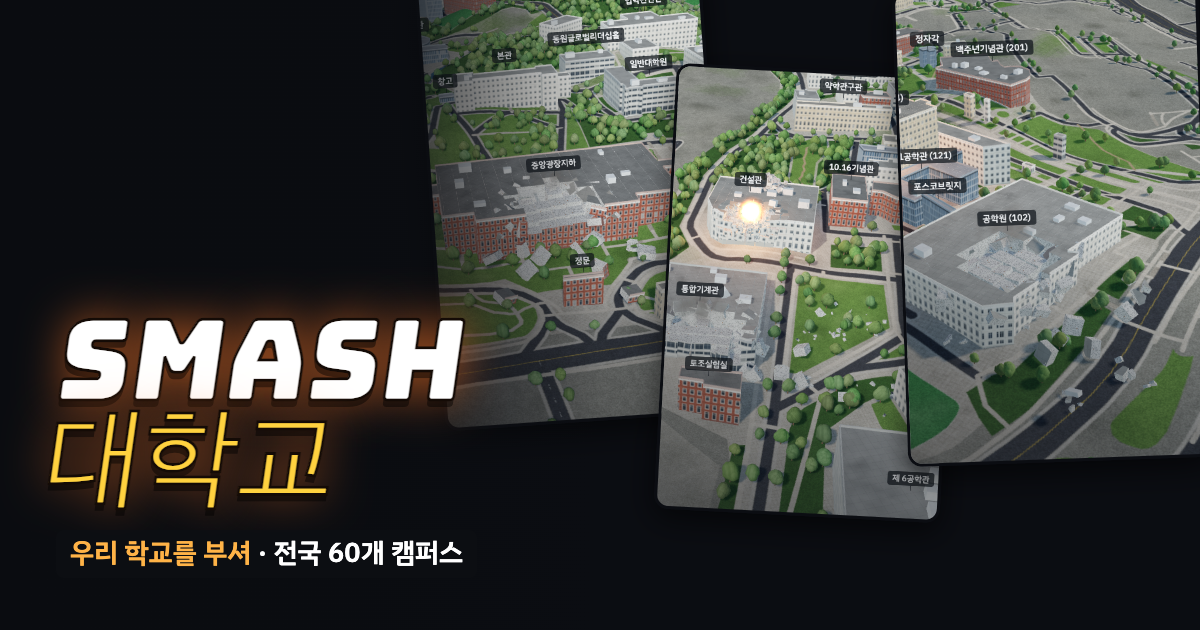
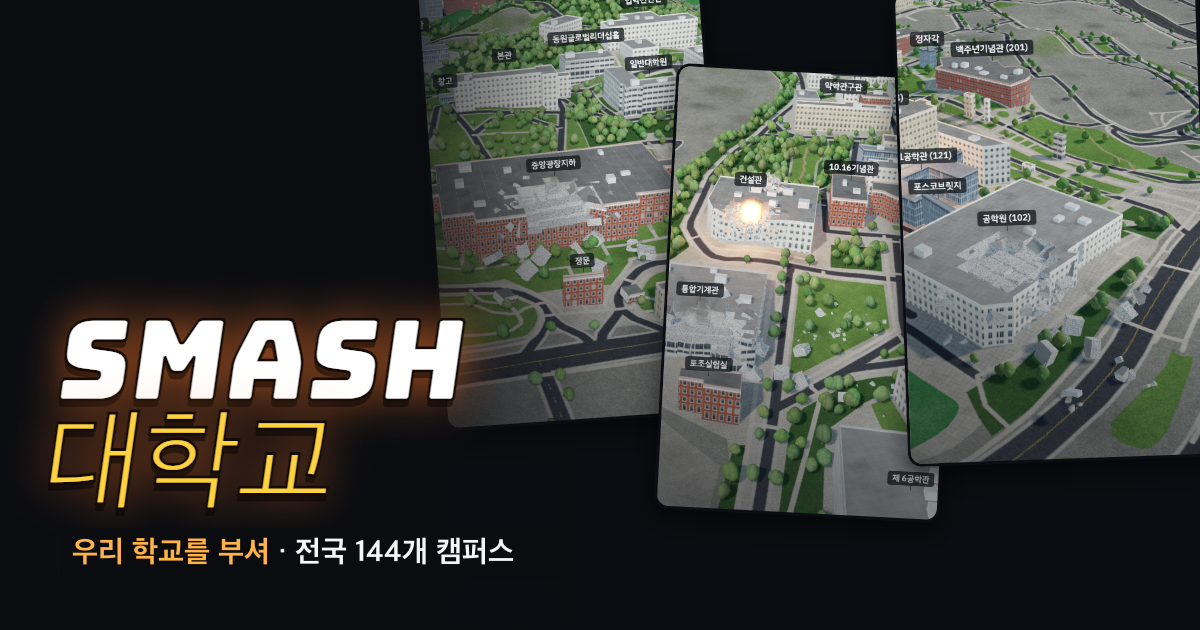
허브: 만든 사람 X 링크(@Hong_Iron_DEV) 추가, 공유 이미지 문구를 144개 캠퍼스로

Changed region(s): [[0.0617, 0.8444, 0.4317, 0.9048]]

diff --git a/site/index.html b/site/index.html
@@ -169,8 +169,9 @@ a:focus-visible, button:focus-visible { outline: 2px solid var(--gold); outline-
 .notice .text { color: var(--muted); font-size: 14px; }
 .notice .go { justify-self: start; padding: 7px 14px; border-radius: 8px; background: var(--hot); color: #1a0d05; font-weight: 600; font-size: 14px; }
 @media (max-width: 640px) { .notice { grid-template-columns: 1fr; } .notice img { height: auto; } }
-.maker { justify-self: end; margin-bottom: -18px; color: var(--muted); font-size: 13px; text-decoration: none; }
-.maker:hover { color: var(--fg); text-decoration: underline; text-underline-offset: 3px; }
+.maker { justify-self: end; margin: 0 0 -18px; color: var(--muted); font-size: 13px; }
+.maker a { color: inherit; text-decoration: none; }
+.maker a:hover { color: var(--fg); text-decoration: underline; text-underline-offset: 3px; }
 .fab { position: fixed; right: max(calc(16px + env(safe-area-inset-right, 0px)), calc((100vw - 1080px) / 2 + 16px)); bottom: calc(16px + env(safe-area-inset-bottom, 0px)); z-index: 50; display: flex; gap: 8px; transition: opacity .2s, transform .2s; }
 .fab a { padding: 11px 16px; border-radius: 999px; font: 700 14px var(--font-ui); text-decoration: none; white-space: nowrap; }
 .fab .kakao { background: #fee500; color: #191919; box-shadow: 0 8px 24px rgba(0, 0, 0, .5), 0 0 0 3px rgba(254, 229, 0, .18); }
@@ -233,7 +234,7 @@ footer { color: var(--muted); font-size: 12.5px; display: grid; gap: 4px; }
 </head>
 <body>
 <main class="wrap">
-  <a class="maker" href="https://hong-iron.github.io/Hongs_Blog/" target="_blank" rel="noopener" id="blog-link">Hong-Iron 블로그 ↗</a>
+  <p class="maker">만든 사람 <a href="https://x.com/Hong_Iron_DEV" target="_blank" rel="noopener" id="x-link">@Hong_Iron_DEV</a> · <a href="https://hong-iron.github.io/Hongs_Blog/" target="_blank" rel="noopener" id="blog-link">블로그 ↗</a></p>
   <header class="hero">
     <h1>SMASH <span>대학교</span></h1>
     <p class="tag">우리 학교 캠퍼스를 3D로 부숴 보세요</p>
@@ -324,7 +325,7 @@ footer { color: var(--muted); font-size: 12.5px; display: grid; gap: 4px; }
     <span>학교와 관계없는 비공식 팬 게임입니다. 학교 로고와 교표는 쓰지 않습니다.</span>
     <span>학교 랭킹에는 학교 코드와 점수만 보냅니다. 방문 수는 쿠키를 쓰지 않는 GoatCounter로 셉니다.</span>
     <span>건물·도로 © <a href="https://www.openstreetmap.org/copyright" target="_blank" rel="noopener">OpenStreetMap 기여자</a> · 고도 AWS Terrain Tiles (SRTM 30 m 기반) · 소스 <a href="https://github.com/Hong-Iron/SMASH" target="_blank" rel="noopener">GitHub</a></span>
-    <span>문의 <a href="mailto:hongcheolmin004@gmail.com" id="mail-link">hongcheolmin004@gmail.com</a></span>
+    <span>만든 사람 HongCM · X <a href="https://x.com/Hong_Iron_DEV" target="_blank" rel="noopener" id="x-link-foot">@Hong_Iron_DEV</a> · 문의 <a href="mailto:hongcheolmin004@gmail.com" id="mail-link">hongcheolmin004@gmail.com</a></span>
   </footer>
 </main>
 <div class="fab off" id="fab">
@@ -342,6 +343,7 @@ footer { color: var(--muted); font-size: 12.5px; display: grid; gap: 4px; }
     if (Date.now() - closedAt > WEEK) strip.hidden = false;
     strip.querySelectorAll('a[data-ev]').forEach(function (a) { a.addEventListener('click', function () { ev(a.dataset.ev); }); });
     document.getElementById('blog-link').addEventListener('click', function () { ev('hub-blog'); });
+    ['x-link', 'x-link-foot'].forEach(function (id) { document.getElementById(id).addEventListener('click', function () { ev('hub-x'); }); });
     // 토스는 휴대폰에서만 앱 링크로 열린다. PC에서는 대신 계좌번호를 복사한다
     var phone = /Android|iPhone|iPad|iPod/i.test(navigator.userAgent) || (navigator.maxTouchPoints > 1 && /Mac/.test(navigator.platform));
     document.querySelectorAll('a.toss').forEach(function (a) {

diff --git a/src/index.html b/src/index.html
@@ -169,8 +169,9 @@ a:focus-visible, button:focus-visible { outline: 2px solid var(--gold); outline-
 .notice .text { color: var(--muted); font-size: 14px; }
 .notice .go { justify-self: start; padding: 7px 14px; border-radius: 8px; background: var(--hot); color: #1a0d05; font-weight: 600; font-size: 14px; }
 @media (max-width: 640px) { .notice { grid-template-columns: 1fr; } .notice img { height: auto; } }
-.maker { justify-self: end; margin-bottom: -18px; color: var(--muted); font-size: 13px; text-decoration: none; }
-.maker:hover { color: var(--fg); text-decoration: underline; text-underline-offset: 3px; }
+.maker { justify-self: end; margin: 0 0 -18px; color: var(--muted); font-size: 13px; }
+.maker a { color: inherit; text-decoration: none; }
+.maker a:hover { color: var(--fg); text-decoration: underline; text-underline-offset: 3px; }
 .fab { position: fixed; right: max(calc(16px + env(safe-area-inset-right, 0px)), calc((100vw - 1080px) / 2 + 16px)); bottom: calc(16px + env(safe-area-inset-bottom, 0px)); z-index: 50; display: flex; gap: 8px; transition: opacity .2s, transform .2s; }
 .fab a { padding: 11px 16px; border-radius: 999px; font: 700 14px var(--font-ui); text-decoration: none; white-space: nowrap; }
 .fab .kakao { background: #fee500; color: #191919; box-shadow: 0 8px 24px rgba(0, 0, 0, .5), 0 0 0 3px rgba(254, 229, 0, .18); }
@@ -233,7 +234,7 @@ footer { color: var(--muted); font-size: 12.5px; display: grid; gap: 4px; }
 </head>
 <body>
 <main class="wrap">
-  <a class="maker" href="https://hong-iron.github.io/Hongs_Blog/" target="_blank" rel="noopener" id="blog-link">Hong-Iron 블로그 ↗</a>
+  <p class="maker">만든 사람 <a href="https://x.com/Hong_Iron_DEV" target="_blank" rel="noopener" id="x-link">@Hong_Iron_DEV</a> · <a href="https://hong-iron.github.io/Hongs_Blog/" target="_blank" rel="noopener" id="blog-link">블로그 ↗</a></p>
   <header class="hero">
     <h1>SMASH <span>대학교</span></h1>
     <p class="tag">우리 학교 캠퍼스를 3D로 부숴 보세요</p>
@@ -324,7 +325,7 @@ footer { color: var(--muted); font-size: 12.5px; display: grid; gap: 4px; }
     <span>학교와 관계없는 비공식 팬 게임입니다. 학교 로고와 교표는 쓰지 않습니다.</span>
     <span>학교 랭킹에는 학교 코드와 점수만 보냅니다. 방문 수는 쿠키를 쓰지 않는 GoatCounter로 셉니다.</span>
     <span>건물·도로 © <a href="https://www.openstreetmap.org/copyright" target="_blank" rel="noopener">OpenStreetMap 기여자</a> · 고도 AWS Terrain Tiles (SRTM 30 m 기반) · 소스 <a href="https://github.com/Hong-Iron/SMASH" target="_blank" rel="noopener">GitHub</a></span>
-    <span>문의 <a href="mailto:hongcheolmin004@gmail.com" id="mail-link">hongcheolmin004@gmail.com</a></span>
+    <span>만든 사람 HongCM · X <a href="https://x.com/Hong_Iron_DEV" target="_blank" rel="noopener" id="x-link-foot">@Hong_Iron_DEV</a> · 문의 <a href="mailto:hongcheolmin004@gmail.com" id="mail-link">hongcheolmin004@gmail.com</a></span>
   </footer>
 </main>
 <div class="fab off" id="fab">
@@ -342,6 +343,7 @@ footer { color: var(--muted); font-size: 12.5px; display: grid; gap: 4px; }
     if (Date.now() - closedAt > WEEK) strip.hidden = false;
     strip.querySelectorAll('a[data-ev]').forEach(function (a) { a.addEventListener('click', function () { ev(a.dataset.ev); }); });
     document.getElementById('blog-link').addEventListener('click', function () { ev('hub-blog'); });
+    ['x-link', 'x-link-foot'].forEach(function (id) { document.getElementById(id).addEventListener('click', function () { ev('hub-x'); }); });
     // 토스는 휴대폰에서만 앱 링크로 열린다. PC에서는 대신 계좌번호를 복사한다
     var phone = /Android|iPhone|iPad|iPod/i.test(navigator.userAgent) || (navigator.maxTouchPoints > 1 && /Mac/.test(navigator.platform));
     document.querySelectorAll('a.toss').forEach(function (a) {
